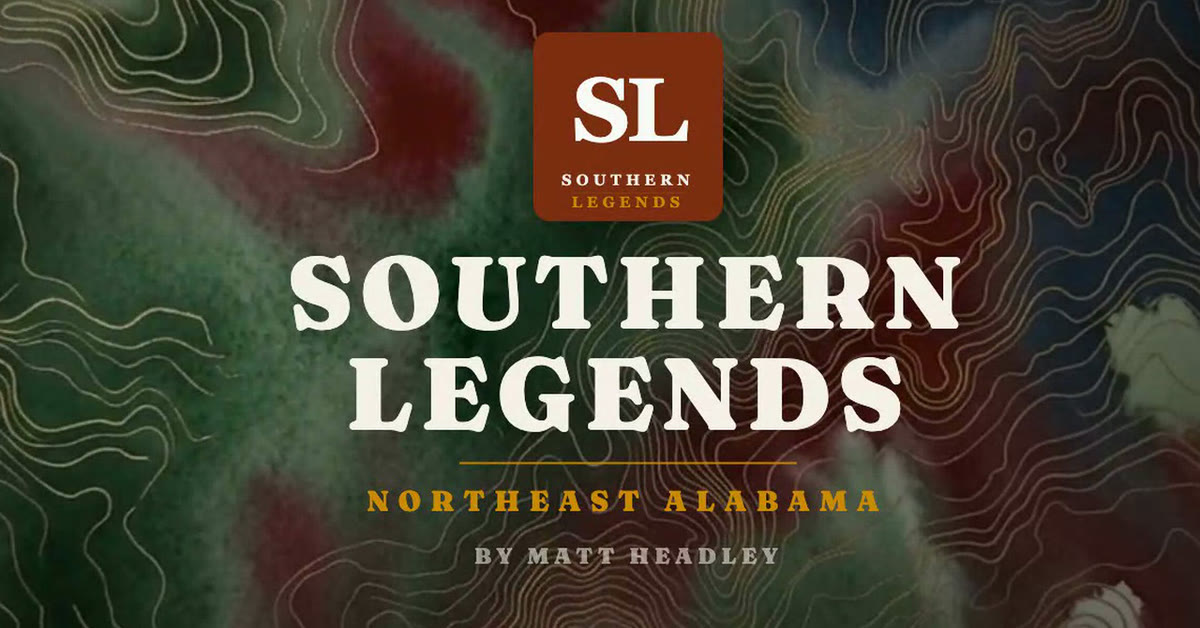
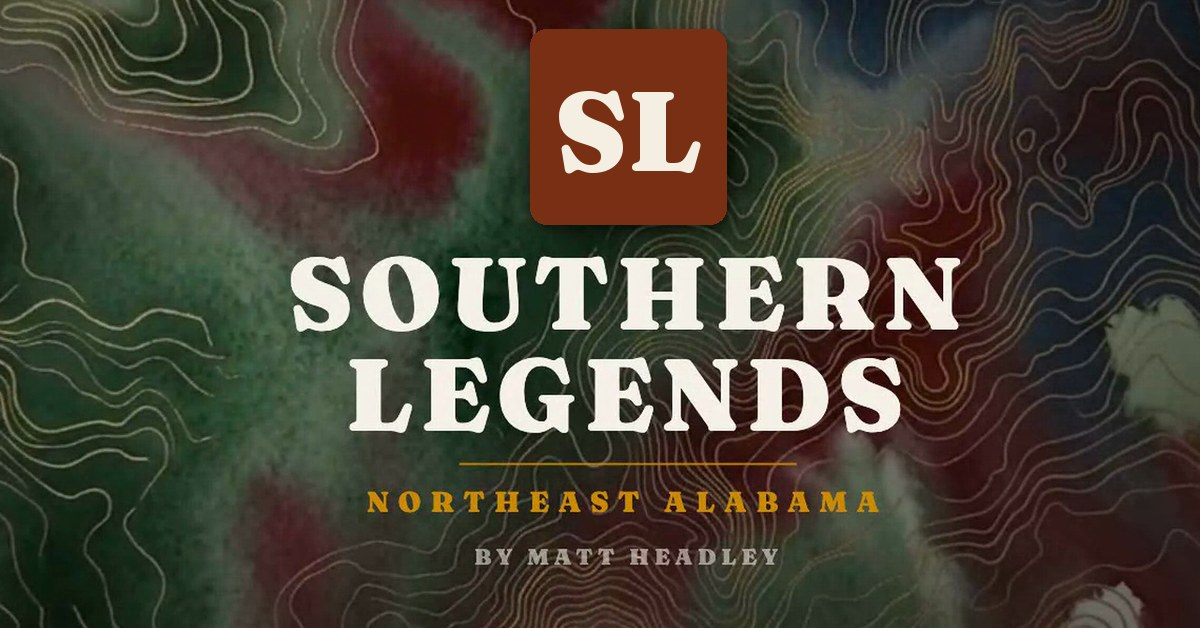
SL: 988 CrisisLine on suicide stories, email crisis/ad/info blocks, word-free masthead badge, #video re-align
- CrisisLine component near the top of every page that mentions suicide (4 pages); registered for
  profiles, essays, lists; tools/sl-enrich.py lint_crisis errors when it's missing
- Subscriber emails: crisis block (auto on sensitive pages; send refuses suicide mention without 988),
  labeled ad block (The Aisle), info block; mobile padding only on outer rows
- tools/email-masthead.py: masthead from SL end card with badge redrawn as just 'SL'
- Real handwritten signature; VideoEmbed re-aligns to #video after images load

diff --git a/src/app/components/VideoEmbed.tsx b/src/app/components/VideoEmbed.tsx
@@ -79,6 +79,20 @@ export default function VideoEmbed({ url, caption, id = "video" }: VideoEmbedPro
     return () => observer.disconnect();
   }, []);
 
+  // Links like /profiles/x#video (from emails) jump before images above have loaded, so the
+  // page shifts and the video ends up off-screen. Re-align once the page settles.
+  useEffect(() => {
+    if (typeof window === "undefined" || window.location.hash !== `#${id}`) return;
+    const align = () => document.getElementById(id)?.scrollIntoView({ block: "start" });
+    const timers = [300, 1200, 2500].map((ms) => window.setTimeout(align, ms));
+    if (document.readyState === "complete") align();
+    else window.addEventListener("load", align, { once: true });
+    return () => {
+      timers.forEach(window.clearTimeout);
+      window.removeEventListener("load", align);
+    };
+  }, [id]);
+
   useEffect(() => {
     if (parsed?.platform !== "youtube" || !parsed.videoId) return;
     fetch(`/api/youtube-stats?videoId=${parsed.videoId}`)

diff --git a/src/app/components/CrisisLine.tsx b/src/app/components/CrisisLine.tsx
@@ -1,0 +1,25 @@
+// Safe-messaging notice for stories that touch suicide or self-harm. Goes near the top of the
+// body so readers who need it see it before the story, not after. tools/sl-enrich.py lint
+// flags any page that mentions suicide without it.
+export default function CrisisLine() {
+  return (
+    <aside
+      role="note"
+      className="not-prose"
+      style={{
+        margin: "0 0 2rem",
+        padding: "0.85rem 1.1rem",
+        borderLeft: "4px solid #CA8A04",
+        background: "#faf6ee",
+        borderRadius: "0 0.5rem 0.5rem 0",
+        fontSize: "0.95rem",
+        lineHeight: 1.55,
+        color: "#3F3B36",
+      }}
+    >
+      This story talks about suicide. If you or someone you know is struggling, call or text{" "}
+      <a href="tel:988" style={{ color: "#9A3412", fontWeight: 700 }}>988</a>, the Suicide &amp; Crisis
+      Lifeline, any time. It&apos;s free and confidential.
+    </aside>
+  );
+}

diff --git a/src/app/profiles/[slug]/page.tsx b/src/app/profiles/[slug]/page.tsx
@@ -1,5 +1,6 @@
 export const revalidate = 300
 
+import CrisisLine from "@/app/components/CrisisLine";
 import type { Metadata } from "next";
 import Image from "next/image";
 import Link from "next/link";
@@ -49,6 +50,7 @@ import NextProfileCard from "@/app/components/NextProfileCard";
 import AuthorSupport from "@/app/components/AuthorSupport";
 
 const mdxComponents = {
+  CrisisLine,
   h2: (props: React.ComponentProps<"h2">) => {
     const id =
       typeof props.children === "string"

diff --git a/src/app/essays/[slug]/page.tsx b/src/app/essays/[slug]/page.tsx
@@ -1,5 +1,6 @@
 export const revalidate = 300
 
+import CrisisLine from "@/app/components/CrisisLine";
 import type { Metadata } from "next";
 import { Link } from "next-view-transitions";
 import Image from "next/image";
@@ -72,6 +73,7 @@ function FeaturedImage({ src, alt, caption }: { src: string; alt: string; captio
 
 
 const mdxComponents = {
+  CrisisLine,
   h2: (props: React.ComponentProps<"h2">) => {
     const id =
       typeof props.children === "string"

diff --git a/src/app/listicles/[slug]/page.tsx b/src/app/listicles/[slug]/page.tsx
@@ -1,5 +1,6 @@
 export const revalidate = 300;
 
+import CrisisLine from "@/app/components/CrisisLine";
 import type { Metadata } from "next";
 import Image from "next/image";
 import { MDXRemote } from "next-mdx-remote/rsc";
@@ -34,6 +35,7 @@ export async function generateMetadata({
 }
 
 const mdxComponents = {
+  CrisisLine,
   Script: (props: React.ComponentProps<"script">) => <script {...props} />,
 };
 

diff --git a/tools/sl-notify-subscribers.py b/tools/sl-notify-subscribers.py
@@ -192,9 +192,9 @@ def c_story(kicker: str, title: str, dek: str, image: str, alt: str, credit: str
     return (f'<tr><td class="px" style="padding:28px 40px 8px;">'
             f'<table role="presentation" width="100%" cellpadding="0" cellspacing="0" border="0" '
             f'style="border:1px solid {C["border"]};border-radius:8px;background:#ffffff;">'
-            f'<tr><td class="px" style="padding:0;"><a href="{_e(href)}"><img src="{_e(_abs(image))}" width="518" alt="{_e(alt)}" '
+            f'<tr><td style="padding:0;"><a href="{_e(href)}"><img src="{_e(_abs(image))}" width="518" alt="{_e(alt)}" '
             f'style="display:block;width:100%;height:auto;border:0;border-radius:8px 8px 0 0;"></a></td></tr>'
-            f'<tr><td class="px" style="padding:16px 24px 24px;">{cred}'
+            f'<tr><td style="padding:16px 24px 24px;">{cred}'
             f'<div style="font-family:{MONO};font-size:12px;letter-spacing:2px;text-transform:uppercase;'
             f'color:{C["accent"]};padding:12px 0 6px;">{_e(kicker)}</div>'
             f'<div style="font-family:{SERIF};font-size:28px;line-height:1.15;font-weight:700;color:{C["dark"]};'
@@ -210,11 +210,11 @@ def c_video(thumb: str, page_url: str, label: str, length: str) -> str:
     return (f'<tr><td class="px" style="padding:20px 40px 8px;">'
             f'<table role="presentation" width="100%" cellpadding="0" cellspacing="0" border="0" '
             f'style="background:{C["dark"]};border-radius:8px;">'
-            f'<tr><td class="px" style="padding:0;"><a href="{href}"><img src="{_e(thumb)}" width="520" alt="{_e(label)}" '
+            f'<tr><td style="padding:0;"><a href="{href}"><img src="{_e(_abs(thumb))}" width="520" alt="{_e(label)}" '
             f'style="display:block;width:100%;height:auto;border:0;border-radius:8px 8px 0 0;"></a></td></tr>'
-            f'<tr><td class="px" style="padding:14px 20px;"><a href="{href}" style="font-family:{SANS};font-size:15px;font-weight:700;'
+            f'<tr><td style="padding:14px 20px;"><a href="{href}" style="font-family:{SANS};font-size:15px;font-weight:700;'
             f'color:#ffffff;text-decoration:none;"><span style="color:{C["accent"]};">&#9654;</span>&nbsp; {_e(label)}'
-            f'<span style="font-weight:400;color:#b8b2aa;"> &middot; {_e(length)}</span></a></td></tr>'
+            + (f'<span style="font-weight:400;color:#b8b2aa;"> &middot; {_e(length)}</span>' if length else '') + f'</a></td></tr>'
             f'</table></td></tr>')
 
 
@@ -232,7 +232,7 @@ def c_events(title: str, rows: list[dict], link: dict | None = None) -> str:
     return (f'<tr><td class="px" style="padding:24px 40px 8px;">'
             f'<table role="presentation" width="100%" cellpadding="0" cellspacing="0" border="0" '
             f'style="background:{C["warm"]};border-left:4px solid {C["accent"]};border-radius:0 8px 8px 0;">'
-            f'<tr><td class="px" style="padding:18px 22px;"><div style="font-family:{MONO};font-size:12px;letter-spacing:2px;'
+            f'<tr><td style="padding:18px 22px;"><div style="font-family:{MONO};font-size:12px;letter-spacing:2px;'
             f'text-transform:uppercase;color:{C["muted"]};padding-bottom:4px;">{_e(title)}</div>'
             f'<table role="presentation" width="100%" cellpadding="0" cellspacing="0" border="0">{trs}</table>{lk}'
             f'</td></tr></table></td></tr>')
@@ -265,6 +265,41 @@ def c_footer() -> str:
             f'<a href="{{{{{{RESEND_UNSUBSCRIBE_URL}}}}}}" style="color:{C["muted"]};">Unsubscribe</a></td></tr>')
 
 
+def c_info(title: str, html_text: str, link: dict | None = None) -> str:
+    lk = (f'<div style="padding-top:10px;"><a href="{_e(link["href"])}" style="font-family:{SANS};font-size:15px;'
+          f'font-weight:700;color:{C["primary"]};">{_e(link["label"])} &rarr;</a></div>') if link else ""
+    return (f'<tr><td class="px" style="padding:24px 40px 8px;">'
+            f'<table role="presentation" width="100%" cellpadding="0" cellspacing="0" border="0" '
+            f'style="background:{C["warm"]};border-left:4px solid {C["accent"]};border-radius:0 8px 8px 0;">'
+            f'<tr><td style="padding:18px 22px;"><div style="font-family:{MONO};font-size:12px;letter-spacing:2px;'
+            f'text-transform:uppercase;color:{C["muted"]};padding-bottom:6px;">{_e(title)}</div>'
+            f'<div style="font-family:{BODY};font-size:16px;line-height:1.6;color:{C["text"]};">{html_text}</div>{lk}'
+            f'</td></tr></table></td></tr>')
+
+
+def c_crisis() -> str:
+    """Safe messaging. Any email that mentions suicide must carry this (send() refuses otherwise)."""
+    return (f'<tr><td class="px" style="padding:20px 40px 4px;">'
+            f'<table role="presentation" width="100%" cellpadding="0" cellspacing="0" border="0" '
+            f'style="background:#faf6ee;border-left:4px solid {C["accent"]};border-radius:0 8px 8px 0;">'
+            f'<tr><td style="padding:14px 18px;font-family:{SANS};font-size:15px;line-height:1.55;color:{C["text"]};">'
+            f'This story talks about suicide. If you or someone you know is struggling, call or text '
+            f'<a href="tel:988" style="color:{C["primary"]};font-weight:700;">988</a>, the Suicide &amp; Crisis Lifeline, '
+            f'any time. It\'s free and confidential.</td></tr></table></td></tr>')
+
+
+def c_ad(image: str, href: str, alt: str, label: str, html_text: str = "") -> str:
+    """A labeled promo (e.g. The Aisle, Matt's own event). Always carries a visible label."""
+    txt = (f'<div style="font-family:{BODY};font-size:16px;line-height:1.6;color:{C["text"]};padding:0 0 14px;">'
+           f'{html_text}</div>') if html_text else ""
+    return (f'<tr><td class="px" align="center" style="padding:28px 40px 8px;">'
+            f'<div style="font-family:{MONO};font-size:11px;letter-spacing:2px;text-transform:uppercase;'
+            f'color:{C["muted"]};padding:0 0 10px;">{_e(label)}</div>{txt}'
+            f'<a href="{_e(href)}"><img src="{_e(_abs(image))}" width="300" alt="{_e(alt)}" '
+            f'style="display:block;width:300px;max-width:100%;height:auto;border:0;border-radius:6px;'
+            f'box-shadow:0 2px 10px rgba(0,0,0,0.12);"></a></td></tr>')
+
+
 def wrap(rows: str, preheader: str = "") -> str:
     pre = (f'<div style="display:none;max-height:0;overflow:hidden;opacity:0;">{_e(preheader)}</div>'
            if preheader else "")
@@ -289,6 +324,9 @@ BLOCKS = {
     "events": lambda b: c_events(b["title"], b["rows"], b.get("link")),
     "note": lambda b: c_note(b["html"]),
     "signoff": lambda b: c_signoff(b.get("closing", "Thanks for reading,")),
+    "crisis": lambda b: c_crisis(),
+    "info": lambda b: c_info(b["title"], b["html"], b.get("link")),
+    "ad": lambda b: c_ad(b["image"], b["href"], b.get("alt", ""), b.get("label", "Advertisement"), b.get("html", "")),
 }
 
 
@@ -303,7 +341,7 @@ def youtube_thumb(url: str) -> str:
     return f"https://i.ytimg.com/vi/{m.group(1)}/maxresdefault.jpg" if m else ""
 
 
-def build_email(fm: dict, slug: str, route: str) -> tuple[str, str, str]:
+def build_email(fm: dict, slug: str, route: str, text: str = "") -> tuple[str, str, str]:
     """Auto email for a newly live page, built from the same components as letters."""
     title = fm.get("title", slug)
     name = fm.get("name", "")
@@ -315,7 +353,8 @@ def build_email(fm: dict, slug: str, route: str) -> tuple[str, str, str]:
     credit = fm.get("photoCredit") or fm.get("heroCredit") or ""
     if credit and not credit.lower().startswith("photo"):
         credit = f"Photo: {credit}"
-    blocks = [{"type": "story", "kicker": kicker, "title": title, "dek": dek,
+    blocks = [{"type": "crisis"}] if re.search(r"suicid", text, re.I) else []
+    blocks += [{"type": "story", "kicker": kicker, "title": title, "dek": dek,
                "image": email_safe(fm.get("heroImage") or fm.get("image") or ""),
                "alt": fm.get("heroAlt", title), "credit": credit, "href": url}]
     thumb = youtube_thumb(fm.get("youtubeUrl", ""))
@@ -353,7 +392,7 @@ def preview(slug: str, open_it: bool = True) -> dict | None:
     if fm.get("published", "true").lower() == "false" or fm.get("aiWritten", "false").lower() == "true":
         print(f"{slug}: not published (or aiWritten). Not emailing.")
         return None
-    subject, body, url = build_email(fm, slug, route)
+    subject, body, url = build_email(fm, slug, route, path.read_text(encoding="utf-8"))
     return _write_preview(slug, subject, body, url, open_it)
 
 
@@ -416,6 +455,8 @@ def send(slug: str) -> None:
         raise SystemExit(f"{slug}: content changed since the preview Matt saw. Re-preview first.")
     if not cur["live"]:
         raise SystemExit(f"{slug}: page isn't live at {cur['url']}. Deploy first.")
+    if re.search(r"suicid", cur["body"], re.I) and "988" not in cur["body"]:
+        raise SystemExit(f"{slug}: mentions suicide but has no 988 crisis line. Add a crisis block.")
     broken = [u for u in image_urls(cur["body"]) if not is_live(u)]
     if broken:
         raise SystemExit(f"{slug}: these images don't load yet (deploy first?): {broken}")

diff --git a/tools/email-masthead.py b/tools/email-masthead.py
@@ -1,0 +1,56 @@
+#!/usr/bin/env python3
+"""
+email-masthead.py — builds public/images/email/sl-masthead-editorial.jpg for SL subscriber emails.
+
+Source: a frame of the SL watercolor end card (sl-watercolor-bumper-v3-trimmed.mp4 at 12s),
+cropped clear of the recording's UI chrome and the cat, then the SL badge is redrawn with
+just "SL" (Matt, 2026-10-05: no "Southern Legends" words inside the badge, the title below
+already says it).
+
+  python3 tools/email-masthead.py
+"""
+from __future__ import annotations
+
+import subprocess
+import tempfile
+from pathlib import Path
+
+from PIL import Image, ImageDraw, ImageFilter, ImageFont
+
+REPO = Path(__file__).resolve().parent.parent
+BUMPER = Path("/Volumes/Samsung_T5/DownloadsT5/bumpers/sl-watercolor-bumper-v3-trimmed.mp4")
+FONT = Path("/Volumes/Samsung_T5/webdev/gather/assets/fonts/Fraunces-Black.ttf")
+OUT = REPO / "public/images/email/sl-masthead-editorial.jpg"
+
+BADGE_BOX = (534, 33, 722, 220)   # badge position in the 1200x628 banner
+BADGE_FILL = (120, 47, 20)
+CREAM = (245, 239, 227)
+
+
+def main() -> None:
+    with tempfile.TemporaryDirectory() as td:
+        frame = Path(td) / "endcard.png"
+        subprocess.run(["ffmpeg", "-v", "error", "-y", "-ss", "12", "-i", str(BUMPER), "-frames:v", "1",
+                        "-vf", "crop=1708:960:106:60,scale=1920:1080:flags=lanczos,"
+                               "crop=1280:670:290:195,scale=1200:-2:flags=lanczos", str(frame)], check=True)
+        im = Image.open(frame).convert("RGB")
+
+    x0, y0, x1, y1 = BADGE_BOX
+    pad = 4
+    shadow = Image.new("L", im.size, 0)
+    ImageDraw.Draw(shadow).rounded_rectangle((x0 - pad + 3, y0 - pad + 5, x1 + pad + 3, y1 + pad + 5), 16, fill=110)
+    im.paste((0, 0, 0), mask=shadow.filter(ImageFilter.GaussianBlur(6)))
+    d = ImageDraw.Draw(im)
+    d.rounded_rectangle((x0 - pad, y0 - pad, x1 + pad, y1 + pad), 16, fill=BADGE_FILL)
+
+    font = ImageFont.truetype(str(FONT), 112)
+    cx, cy = (x0 + x1) / 2, (y0 + y1) / 2
+    d.text((cx, cy + 4), "SL", font=font, fill=CREAM, anchor="mm")
+
+    OUT.parent.mkdir(parents=True, exist_ok=True)
+    im.save(OUT, quality=88)
+    print(OUT, im.size)
+
+
+if __name__ == "__main__":
+    main()
